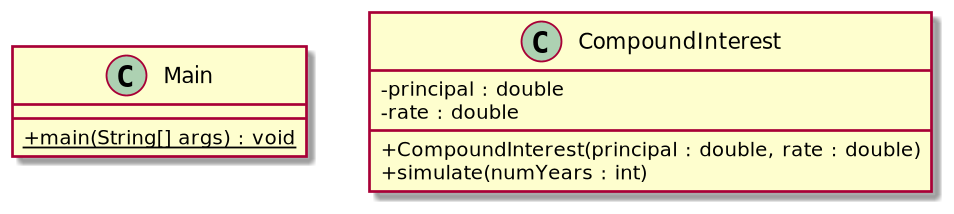
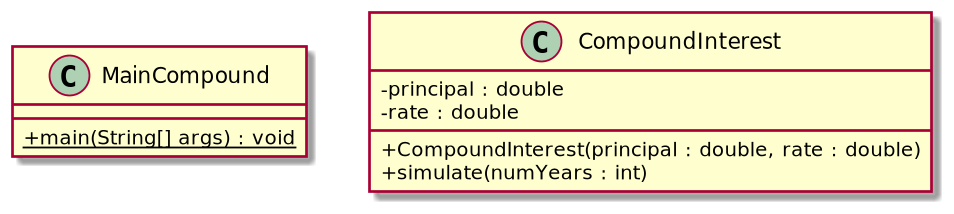
diagrames uml + habilitar assercions

Changed region(s): [[0.0304, 0.2523, 0.304, 0.4486]]

diff --git a/src/MainWithArgs.java b/src/MainWithArgs.java
@@ -1,5 +1,6 @@
 public class MainWithArgs {
   public static void main(String[] args) {
+    assert args.length == 3 : "must be exactly 3 arguments";
     double principal = Double.parseDouble(args[0]); // initial capital
     double rate = Double.parseDouble(args[1]); // percent annual interest rate
     int numYears = Integer.parseInt(args[2]); // number of years passed
